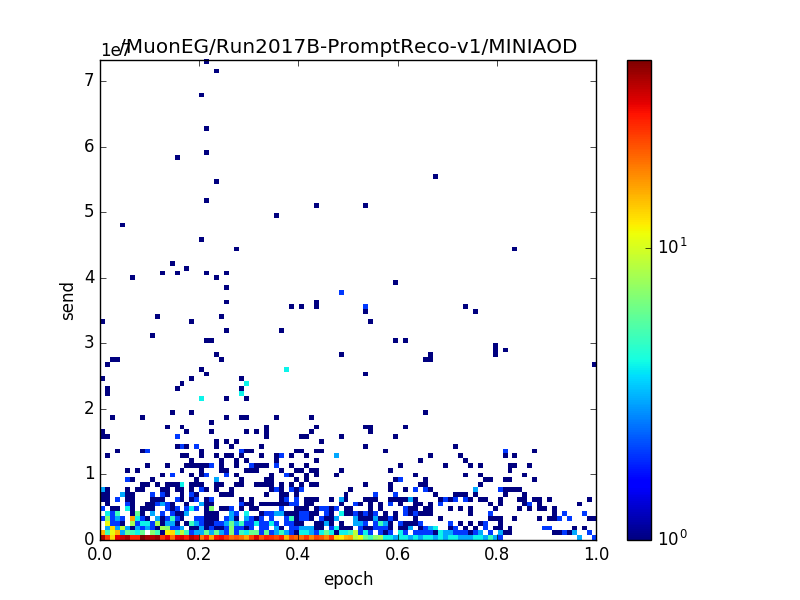
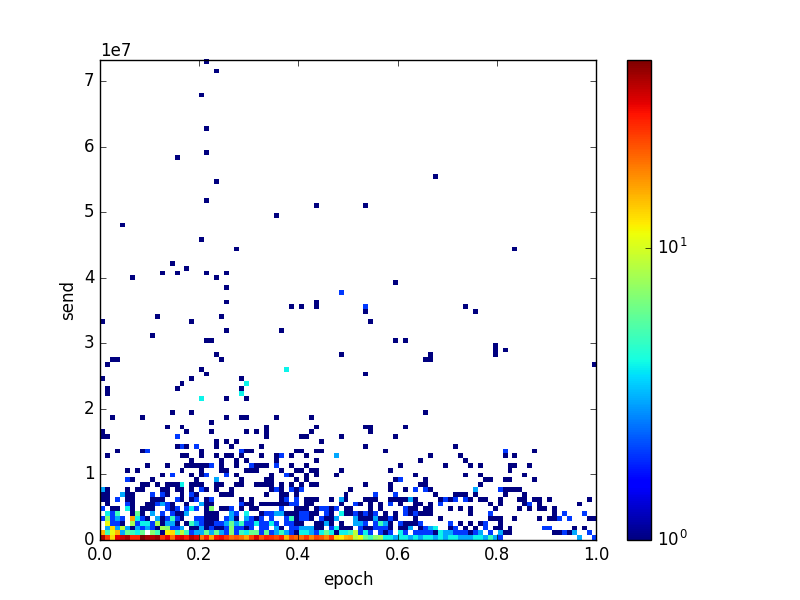
fixed summary formatting, resized graphs, removed graph titles

Changed region(s): [[0.1562, 0.06, 0.7188, 0.09]]

diff --git a/webinterface/main.js b/webinterface/main.js
@@ -1,7 +1,9 @@
 var jsonPath = "static/summaryinfo.json";
+var refreshSecs = 10*60;
 
 $(function() {
     load_json(jsonPath);
+    setInterval(load_json, refreshSecs*1000);
 });
 
 $.ajaxSetup({
@@ -46,7 +48,7 @@ function get_plots(data){
         if (data.hasOwnProperty(key)){
             pltLst = data[key].Plots;
             for (var j = 0; j < pltLst.length; j++){
-                toappend+="<img src="+pltLst[j]+" >";
+                toappend+="<img src="+pltLst[j]+" width=400 height=300>";
             }
             $("#plots_"+i).html(toappend);
             i++;
@@ -57,9 +59,9 @@ function get_plots(data){
 function get_summaries(data){
     var i = 0;
     for (var key in data){
-        $("#details_"+i).append("<p id='summary_"+i+"'></p>");
+        $("#details_"+i).append("<ul id='summary_"+i+"'></ul>");
         if (data.hasOwnProperty(key)){
-            jsonStr = syntaxHighlight(JSON.stringify(data[key]), undefined, 4);
+            jsonStr = syntaxHighlight(JSON.stringify(data[key], undefined, 4));
             $("#summary_"+i).html("<pre>"+jsonStr+"</pre>");
             i++;
         }

diff --git a/webinterface/style.css b/webinterface/style.css
@@ -1,6 +1,24 @@
 @import url(http://fonts.googleapis.com/css?family=Open+Sans:300,400,900);
 @import url(https://fonts.googleapis.com/css?family=Inconsolata);
 
+/* TOP BAR */
+#topBar {
+    width: 100%;
+    /* font-size: 1.9em; */
+    font-size: xx-large;
+    padding: 0px 10px 10px 10px;
+    /* vertical-align: middle; */
+    font-weight: bold;
+    height: 45px;
+    /* line-height: 55px; */
+    z-index: -1;
+    background-color: #eee;
+    white-space: nowrap;
+}
+#colorstrip{
+    width: 100%; height: 3px;
+    background-color: black;
+}
 
 /* BODY CONTENTS */
 body {

diff --git a/webinterface/index.html b/webinterface/index.html
@@ -13,6 +13,11 @@
     </head>
 
     <body>
+        <div id="topbar">
+             <span id="firstTitle" class="thin">auto</span>Plotter
+        </div>
+
+        <div id="colorstrip"></div>
         <div id="container">
             <div id="section_1" class="section"></div>
         </div>

diff --git a/webinterface/Plotter.py b/webinterface/Plotter.py
@@ -79,7 +79,7 @@ def get_json_files(logObjPile, condor_jobs, ftype, usrpath):
 #Sets plot title and axis labels, shows graph
 def set_graph_info(title, xlabel, ylabel):
 
-    plt.title(title)
+    plt.title("")
     plt.xlabel(xlabel)
     plt.ylabel(ylabel)
 
@@ -145,8 +145,6 @@ def get_data_2D(logObjPile, xkey, ykey):
     
 def plot_1DHist(logObjPile, title, xkey, bins):
     x = get_data_1D(logObjPile, xkey)
-    if title == None:
-        title = "1D Histogram"
 
     plt.hist(x, bins)
 
@@ -155,8 +153,6 @@ def plot_1DHist(logObjPile, title, xkey, bins):
 def plot_2DHist(logObjPile, title, xkey, ykey, bins, norm_toggle):
     #Get data
     x, y = get_data_2D(logObjPile, xkey, ykey)
-    if title == None:
-        title = "2DHist"
     
     if norm_toggle == 1:
         max_x = float(max(x))
@@ -182,8 +178,6 @@ def plot_Profile(logObjPile, title, xkey, ykey, bins, norm_toggle):
     x, y = get_data_2D(logObjPile, xkey, ykey)
     x = np.array(x)
     y = np.array(y)
-    if title == None:
-        title = "Profile"
     
     if norm_toggle == 1:
         max_x = float(max(x))

diff --git a/webinterface/StatsParser.py b/webinterface/StatsParser.py
@@ -24,15 +24,7 @@ def updt_summary(summaryPile, dsname, bad_jobs, missing_evts, pltpaths, logObjPi
         "Plots":pltpaths,
         "Jobs not done":bad_jobs,
         "Missing Events":(missing_evts), 
-        "Hosts":[]
         }
-    for log in logObjPile:
-        try:
-            host = logObjPile[log]["host"]
-            if host not in summaryPile[name]["Hosts"]:
-                summaryPile[name]["Hosts"].append(host)
-        except KeyError:
-            pass
 
     return summaryPile
 
